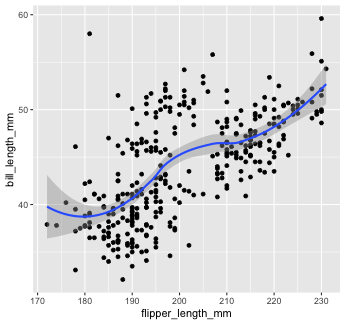
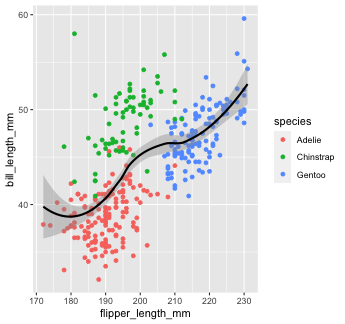
global mapping

diff --git a/static/slides/06-slides.html b/static/slides/06-slides.html
@@ -90,14 +90,14 @@ glimpse(penguins)
 ```
 ## Rows: 344
 ## Columns: 8
-## $ species           &lt;fct&gt; Adelie, Adelie, Adelie, Adelie, Adelie, Adelie, Adelie, Adelie, Adelie, Adelie, Adelie, Adelie, Adelie, Adelie, Adelie, Adelie, Ade…
-## $ island            &lt;fct&gt; Torgersen, Torgersen, Torgersen, Torgersen, Torgersen, Torgersen, Torgersen, Torgersen, Torgersen, Torgersen, Torgersen, Torgersen,…
-## $ bill_length_mm    &lt;dbl&gt; 39.1, 39.5, 40.3, NA, 36.7, 39.3, 38.9, 39.2, 34.1, 42.0, 37.8, 37.8, 41.1, 38.6, 34.6, 36.6, 38.7, 42.5, 34.4, 46.0, 37.8, 37.7, 3…
-## $ bill_depth_mm     &lt;dbl&gt; 18.7, 17.4, 18.0, NA, 19.3, 20.6, 17.8, 19.6, 18.1, 20.2, 17.1, 17.3, 17.6, 21.2, 21.1, 17.8, 19.0, 20.7, 18.4, 21.5, 18.3, 18.7, 1…
-## $ flipper_length_mm &lt;int&gt; 181, 186, 195, NA, 193, 190, 181, 195, 193, 190, 186, 180, 182, 191, 198, 185, 195, 197, 184, 194, 174, 180, 189, 185, 180, 187, 18…
-## $ body_mass_g       &lt;int&gt; 3750, 3800, 3250, NA, 3450, 3650, 3625, 4675, 3475, 4250, 3300, 3700, 3200, 3800, 4400, 3700, 3450, 4500, 3325, 4200, 3400, 3600, 3…
-## $ sex               &lt;fct&gt; male, female, female, NA, female, male, female, male, NA, NA, NA, NA, female, male, male, female, female, male, female, male, femal…
-## $ year              &lt;int&gt; 2007, 2007, 2007, 2007, 2007, 2007, 2007, 2007, 2007, 2007, 2007, 2007, 2007, 2007, 2007, 2007, 2007, 2007, 2007, 2007, 2007, 2007,…
+## $ species           &lt;fct&gt; Adelie, Adelie, Adelie, Adelie, Adelie, Adelie, Adelie, Adelie, Adelie, Adelie, Adelie, Adelie, Adelie, Adelie, Adelie,…
+## $ island            &lt;fct&gt; Torgersen, Torgersen, Torgersen, Torgersen, Torgersen, Torgersen, Torgersen, Torgersen, Torgersen, Torgersen, Torgersen…
+## $ bill_length_mm    &lt;dbl&gt; 39.1, 39.5, 40.3, NA, 36.7, 39.3, 38.9, 39.2, 34.1, 42.0, 37.8, 37.8, 41.1, 38.6, 34.6, 36.6, 38.7, 42.5, 34.4, 46.0, 3…
+## $ bill_depth_mm     &lt;dbl&gt; 18.7, 17.4, 18.0, NA, 19.3, 20.6, 17.8, 19.6, 18.1, 20.2, 17.1, 17.3, 17.6, 21.2, 21.1, 17.8, 19.0, 20.7, 18.4, 21.5, 1…
+## $ flipper_length_mm &lt;int&gt; 181, 186, 195, NA, 193, 190, 181, 195, 193, 190, 186, 180, 182, 191, 198, 185, 195, 197, 184, 194, 174, 180, 189, 185, …
+## $ body_mass_g       &lt;int&gt; 3750, 3800, 3250, NA, 3450, 3650, 3625, 4675, 3475, 4250, 3300, 3700, 3200, 3800, 4400, 3700, 3450, 4500, 3325, 4200, 3…
+## $ sex               &lt;fct&gt; male, female, female, NA, female, male, female, male, NA, NA, NA, NA, female, male, male, female, female, male, female,…
+## $ year              &lt;int&gt; 2007, 2007, 2007, 2007, 2007, 2007, 2007, 2007, 2007, 2007, 2007, 2007, 2007, 2007, 2007, 2007, 2007, 2007, 2007, 2007,…
 ```
 
 
@@ -276,7 +276,7 @@ Verbally, we might describe the code we just wrote as "Start with the `penguins`
 class: inverse
 # Your Turn 1
 
-<div class="countdown" id="timer_5f6ac1f1" style="right:0;bottom:0;" data-warnwhen="0">
+<div class="countdown" id="timer_5f6acb2a" style="right:0;bottom:0;" data-warnwhen="0">
 <code class="countdown-time"><span class="countdown-digits minutes">02</span><span class="countdown-digits colon">:</span><span class="countdown-digits seconds">00</span></code>
 </div>
 
@@ -359,9 +359,7 @@ We're going to call `ggplot()` again, and this time add the `geom_histogram()` *
 ```r
 penguins %&gt;% 
   ggplot() + 
-  geom_histogram(
-    mapping = aes(x = flipper_length_mm)
-    ) 
+  geom_histogram(mapping = aes(x = flipper_length_mm)) 
 ```
 ]
 
@@ -384,10 +382,8 @@ You can add additional arguments to the `geom()`. For example, we could change t
 ```r
 penguins %&gt;% 
   ggplot() + 
-  geom_histogram( 
-    mapping = aes(x = flipper_length_mm),
-    bins = 10 
-    )
+  geom_histogram(mapping = aes(x = flipper_length_mm),
+                 bins = 10)
 ```
 
 ]
@@ -411,10 +407,8 @@ Or make them a different color. We can change the color of 2-d objects with the 
 ```r
 penguins %&gt;% 
   ggplot() + 
-  geom_histogram( 
-    mapping = aes(x = flipper_length_mm),
-    fill = "red" 
-    )
+  geom_histogram(mapping = aes(x = flipper_length_mm), 
+                 fill = "red")
 ```
 
 ]
@@ -435,8 +429,7 @@ Now we'll ue a different `geom` -- we'll add a layer of points to our plot using
 penguins %&gt;% 
   ggplot() + 
   geom_point(
-    mapping = aes(x = flipper_length_mm)
-  )
+    mapping = aes(x = flipper_length_mm))
 ```
 
 ```
@@ -451,8 +444,7 @@ penguins %&gt;%
 penguins %&gt;% 
   ggplot() + 
   geom_point(
-    mapping = aes(x = flipper_length_mm)
-  )
+    mapping = aes(x = flipper_length_mm))
 ```
 
 ```
@@ -475,8 +467,7 @@ penguins %&gt;%
   ggplot() + 
   geom_point(
     mapping = aes(x = flipper_length_mm,
-                  y = bill_length_mm)
-  )
+                  y = bill_length_mm))
 ```
 ]
 
@@ -505,8 +496,7 @@ penguins %&gt;%
   geom_point(
     mapping = aes(x = flipper_length_mm,
                   y = bill_length_mm,
-                  color = species)
-  )
+                  color = species))
 ```
 ]
 
@@ -541,11 +531,9 @@ This is a fairly common mistake, so let's take a look at what happens if we tell
 ```r
 penguins %&gt;% 
   ggplot() + 
-  geom_point(
-    mapping = aes(x = flipper_length_mm,
-                  y = bill_length_mm,
-                  color = "red")
-  )
+  geom_point(mapping = aes(x = flipper_length_mm, 
+                           y = bill_length_mm,
+                           color = "red"))
 ```
 
 ]
@@ -563,7 +551,7 @@ penguins %&gt;%
 class: inverse
 # Your Turn 2
 
-<div class="countdown" id="timer_5f6ac06a" style="right:0;bottom:0;" data-warnwhen="0">
+<div class="countdown" id="timer_5f6acc5c" style="right:0;bottom:0;" data-warnwhen="0">
 <code class="countdown-time"><span class="countdown-digits minutes">03</span><span class="countdown-digits colon">:</span><span class="countdown-digits seconds">30</span></code>
 </div>
 
@@ -666,9 +654,11 @@ Another thing we often want to do is to add a line over our scatterplot to descr
 penguins %&gt;% 
   ggplot() + 
   geom_point(aes(x = flipper_length_mm, 
-                 y = bill_length_mm)) + 
+                 y = bill_length_mm,
+                 color = species)) + 
   geom_smooth(aes(x = flipper_length_mm, 
-                 y = bill_length_mm))
+                  y = bill_length_mm),
+              color = "black")
 ```
 
 
@@ -698,9 +688,11 @@ You can change that by setting the `method` argument in `geom_smooth()`. Let's c
 penguins %&gt;% 
   ggplot() + 
   geom_point(aes(x = flipper_length_mm, 
-                 y = bill_length_mm)) + 
+                 y = bill_length_mm,
+                 color = species)) + 
   geom_smooth(aes(x = flipper_length_mm, 
-                 y = bill_length_mm),
+                  y = bill_length_mm),
+              color = "black",
               method = "lm")
 ```
 
@@ -720,7 +712,108 @@ penguins %&gt;%
 # Global aesthetic mapping
 
 
-That looks pretty good, but this code is getting inefficient, because we're specifying the x and y axis for each `geom_*` call. Instead, we can use *global* aesthetic mappings, which are specified in the `ggplot()` call. Global mappings are inherited by each layer unless they're overwritten.
+Our code so far has been getting rather inefficient. We're specifying the x and y axis for each `geom_*` call.
+
+--
+***
+
+Instead, we can use **global** aesthetic mappings, which are specified in the `ggplot()` call. 
+
+--
+
+Global mappings are inherited by each layer unless they're overwritten. 
+
+---
+# Global aesthetic mapping
+
+Let's re-make our previous plot using global aesthetic mapping
+
+.panelset[
+.panel[.panel-name[Code]
+
+
+```r
+penguins %&gt;% 
+  ggplot(aes(x = flipper_length_mm, 
+             y = bill_length_mm))+ 
+  geom_point(aes(color = species)) + 
+  geom_smooth(color = "black",
+              method = "lm")
+```
+]
+
+.panel[.panel-name[Plot]
+
+
+![](06-slides_files/figure-html/point-smooth-global-out-1.png)&lt;!-- --&gt;
+]
+
+.panel[.panel-name[Explanation]
+
+So...what do we put in global aesthetic mapping and what do we put in the aesthetic mapping of specific geoms? 
+
+You want to put anything in the global mapping that you want *every layer to inherit* (or at least the majority of them). 
+
+In the code above, I defined the `x` and `y` aesthetics globally, because I want those the same in every `geom`.
+
+However, I *don't* define the`color` aesthetic globally, because `color` is geom-specific in this case.
+]
+]
+
+---
+# Global asethetic mapping 
+
+Let's take a look at the previous example again, but this time with `color` in the global aesthetic...
+
+.panelset[
+.panel[.panel-name[Code 1]
+
+
+```r
+penguins %&gt;% 
+  ggplot(aes(x = flipper_length_mm, 
+             y = bill_length_mm,
+             color = species))+ 
+  geom_point() +  # inherit global
+  geom_smooth(method = "lm") #inherit global
+```
+]
+
+.panel[.panel-name[Plot 1]
+
+.pull-left[
+![](06-slides_files/figure-html/smooth-color-global-out-1.png)&lt;!-- --&gt;
+]
+
+
+.pull-right[
+As you can see, global aesthetic mapping gets inherited by every layer. We can override this by providing a different aesthetic mapping in individual `geom()` calls...
+]
+]
+
+.panel[.panel-name[Code 2]
+
+
+```r
+penguins %&gt;% 
+  ggplot(aes(x = flipper_length_mm, 
+             y = bill_length_mm,
+             color = species))+ 
+  geom_point() +  #inherit global 
+  geom_smooth(method = "lm",
+              color = "black") #override global `color`
+```
+]
+
+.panel[.panel-name[Plot 2]
+
+
+![](06-slides_files/figure-html/smooth-color-global-override-out-1.png)&lt;!-- --&gt;
+]
+]
+
+---
+# Other geoms
     </textarea>
 <style data-target="print-only">@media screen {.remark-slide-container{display:block;}.remark-slide-scaler{box-shadow:none;}}</style>
 <script src="https://remarkjs.com/downloads/remark-latest.min.js"></script>
